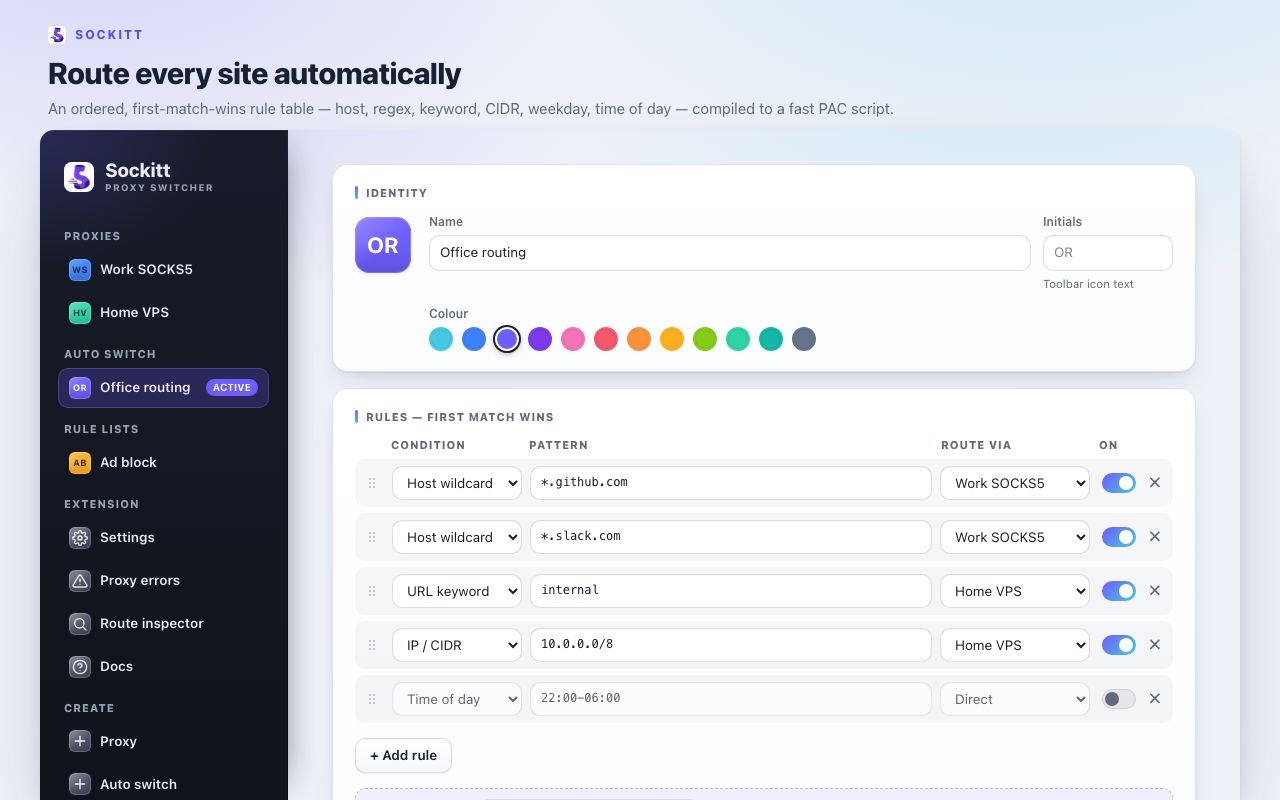
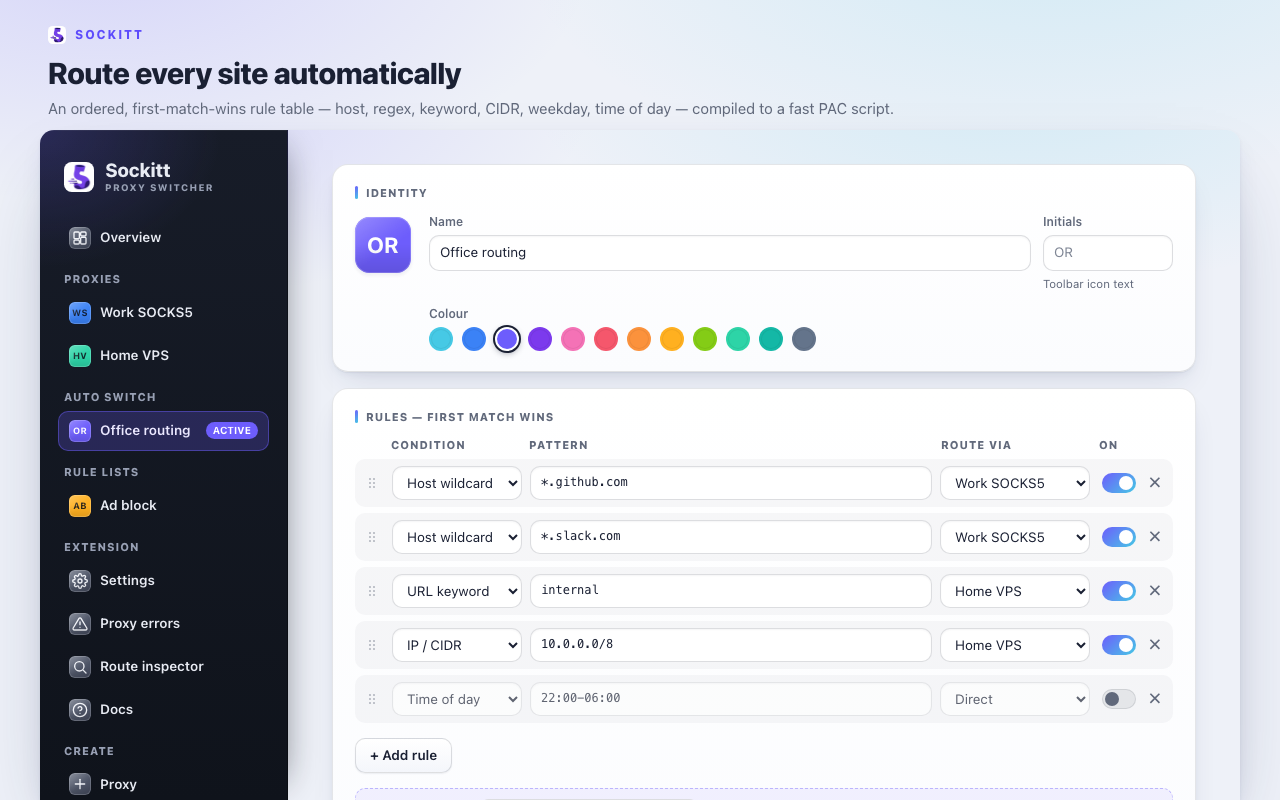
Refresh the listing screenshots, and add one for the Overview
The five existing shots predate the Overview, so every options scene was
missing the nav item the page now opens on. Regenerated from the current
build; the popup shot came out byte-identical, which is the check that
the generator really does render the product rather than a memory of it.

The sixth is the Overview, and it needed the generator to grow three
things before it could say anything true: session storage (the timeline
and the failure state are read from there), a sync-quota stub, and a
canned exit-IP response — declared per scene, so everything else still
throws on an unexpected network call and a listing shot can never come to
depend on the internet.

The fixture is arranged rather than dumped. Against an untouched config
the Overview is a grid of empty states: no session to draw a timeline
from, no tabs to break down, sync reading off, and a health card with
nothing to report — the layout, and none of the point. So: a session with
switching in it, a believable spread of tabs across the three routes the
rule table already produces, and one deliberate smell (a proxy without
<local>) so the health card can demonstrate what it is for.

Ages are relative now. lastUpdated was a fixed timestamp, which the
Overview renders as "fetched 400 d ago" in amber with a stale-list
finding nobody meant to demonstrate — a shot that rots on the shelf.

Two fixes the shot exposed, both real outside it: the "Errors this
[…]

diff --git a/src/options/dashboard.ts b/src/options/dashboard.ts
@@ -651,13 +651,17 @@ function statStrip(): { node: HTMLElement; refresh: () => void } {
         onclick: () => host.open('@inspect'),
       }),
       statTile({
-        label: 'Errors this session',
+        // One word. "Errors this session" wrapped to two lines wherever the
+        // content column is narrow, which pushed this tile's figure a line
+        // below its neighbours' and made the whole strip look ragged. The
+        // scope moves to the footer, which has room for it.
+        label: 'Errors',
         figure: String(errorCount),
         foot: alert
           ? `failing now · ${relativeTime(alert.lastAt)}`
           : log[0]
-            ? `last ${relativeTime(log[0].lastAt)}`
-            : 'nothing has failed',
+            ? `last ${relativeTime(log[0].lastAt)} this session`
+            : 'none this session',
         visual: log.length ? sparkline(log) : null,
         tone: alert ? 'crit' : undefined,
         onclick: () => host.open('@errors'),

diff --git a/README.md b/README.md
@@ -30,6 +30,10 @@ default permission set, and a rule engine that compiles to an optimised PAC
 script.
 
 <p align="center">
+  <img src="img/store/screenshot-6-overview.png" width="720" alt="Sockitt Overview dashboard - live route, routing map, and config health"><br>
+  <sub>Overview: the live route and its exit IP, a map of how your profiles feed into each other, and a health check with one-click fixes</sub>
+</p>
+<p align="center">
   <img src="img/store/screenshot-1-popup.png" width="720" alt="Sockitt popup"><br>
   <sub>Popup: switch profiles on the left; on the right, where this tab routes, its rule, and where it exits</sub>
 </p>
